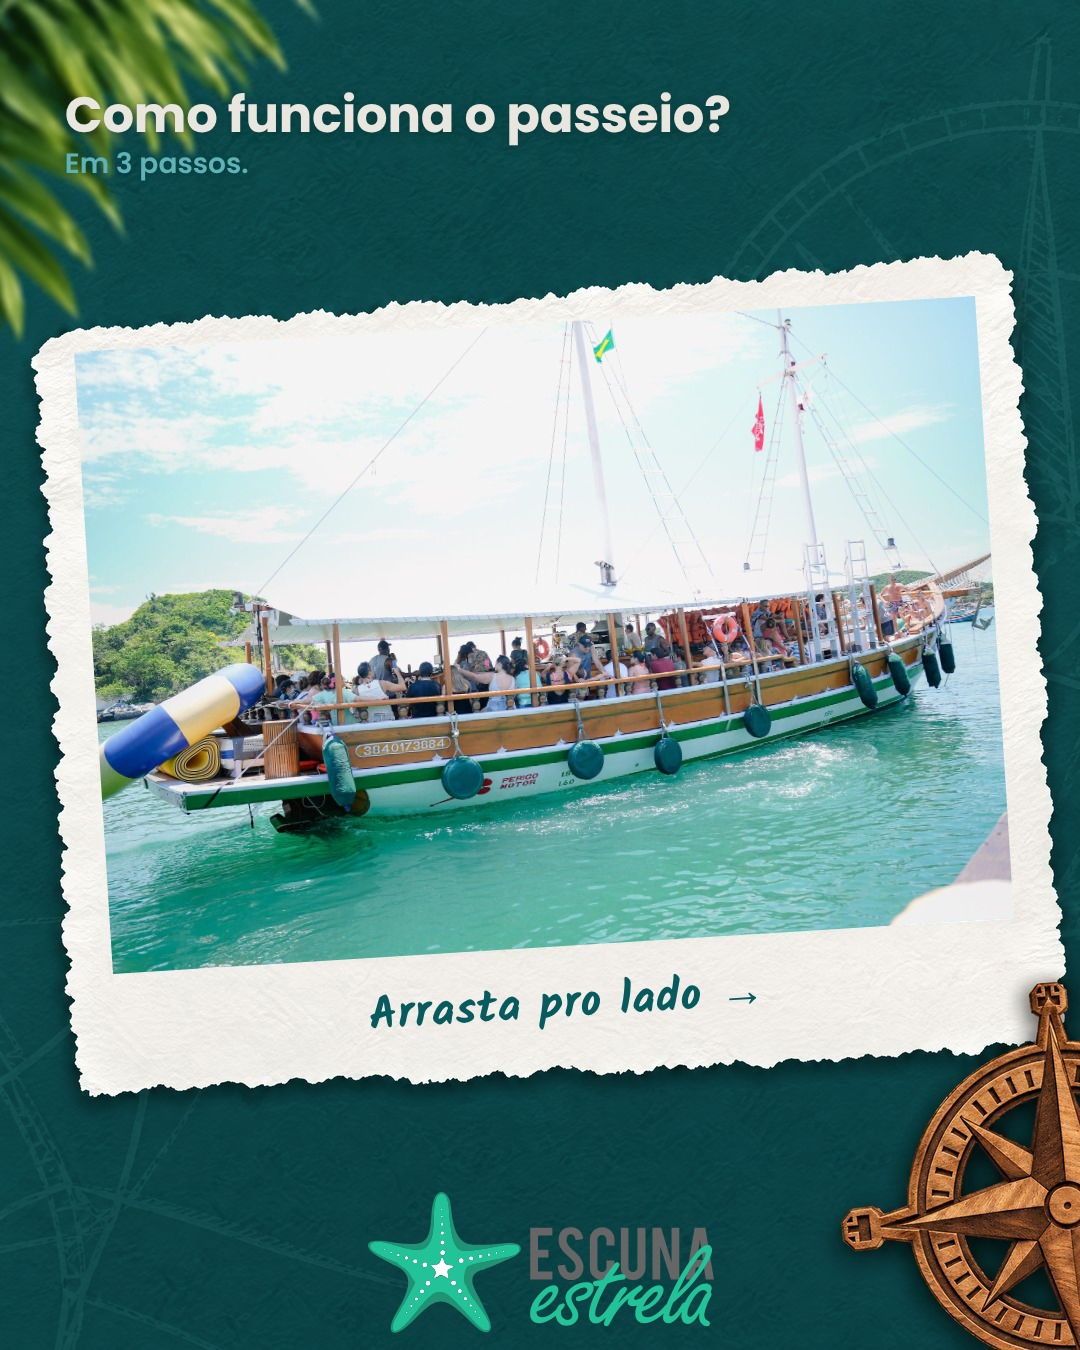
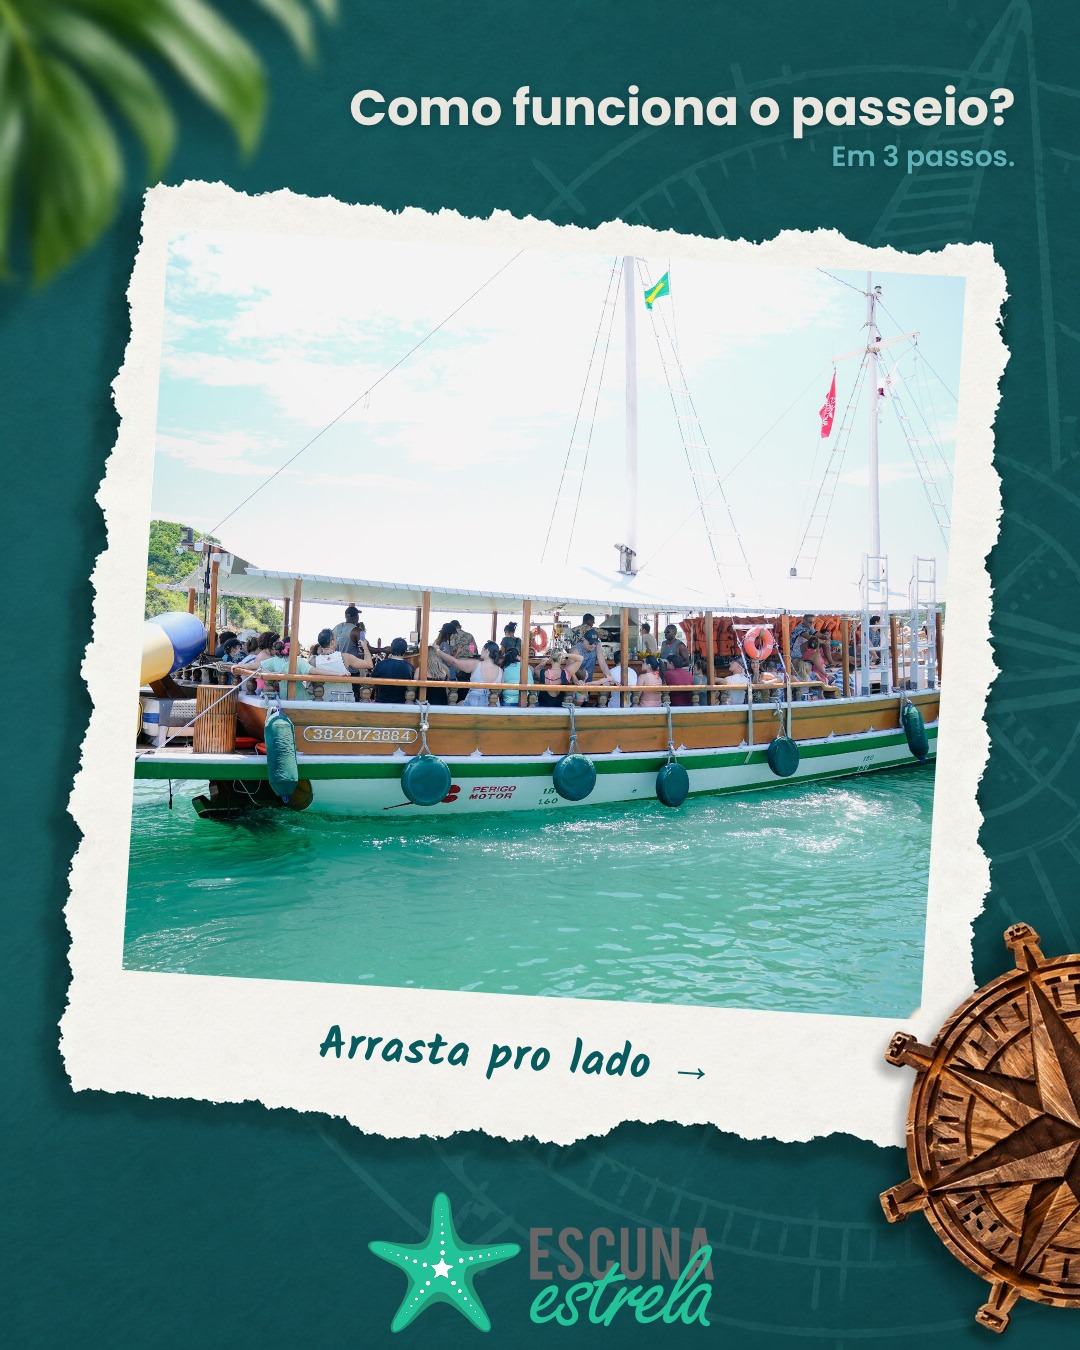
fix(criativos): carrosséis alternam o GIRO da polaroide, não o formato da foto
O pedido "mesclar a orientação em cada foto do carrossel" era sobre o eixo
de rotação da polaroide (todas as bases vêm inclinadas 3–4° anti-horário),
não sobre foto vertical/horizontal. Volta pras polaroides quadradas
aprovadas e alterna o giro:

- molde HF: `espelhar: true` espelha a arte base (scaleX(-1)) — giro vira
  horário, folha e bússola trocam de canto; `alinhar: "direita"` no texto
- render.mjs espelha o quadro junto (cx, giro, bordas, recorte)
- cards 07/08: ímpares anti-horário, pares horário com título à direita
- bases retrato/paisagem ficam no repo como opção, sem uso no lote

Claude-Session: https://claude.ai/code/session_016ARSNAECKu73yHJ9gLAVus

diff --git a/scripts/creatives/templates/molde-hf.html b/scripts/creatives/templates/molde-hf.html
@@ -14,6 +14,7 @@
   /* zonas: caixas em % da arte onde o texto e a logo entram (vêm do spec) */
   .zone { position: absolute; display: flex; flex-direction: column; justify-content: center; align-items: center; text-align: center; gap: .3em; }
   .zone.left { align-items: flex-start; text-align: left; }
+  .zone.right { align-items: flex-end; text-align: right; }
   .title { font-weight: 700; line-height: 1.04; letter-spacing: -.005em; color: var(--ee-offwhite); text-wrap: balance; text-shadow: 0 2px 10px rgba(7,42,46,.45); }
   .fact { font-weight: 600; line-height: 1.25; color: var(--ee-turquesa-clara); text-shadow: 0 1px 6px rgba(7,42,46,.4); }
   .cta { margin-top: .5em; background: #fff; color: var(--ee-petroleo); font-weight: 700; line-height: 1; padding: .62em 1.15em; border-radius: 999px; box-shadow: 0 8px 20px rgba(7,42,46,.35); white-space: nowrap; display: inline-flex; align-items: center; gap: .45em; }
@@ -49,8 +50,8 @@
   document.documentElement.style.setProperty('--W', f.W + 'px'); document.documentElement.style.setProperty('--H', f.H + 'px');
   const Z = Object.assign({ texto: { x: 6, y: 60, w: 88, h: 24, alinhar: 'centro', titulo: 7.4, fato: 3.1, cta: 3.0 }, logo: { x: 30, y: 87, w: 40, h: 9 } }, SPEC.zonas || {});
   const pct = (el, z) => { el.style.left = z.x + '%'; el.style.top = z.y + '%'; el.style.width = z.w + '%'; el.style.height = z.h + '%'; };
-  const base = document.getElementById('base'); base.src = SPEC.baseSrc || '';
-  const zone = document.getElementById('zone'); pct(zone, Z.texto); if (Z.texto.alinhar === 'esquerda') zone.classList.add('left');
+  const base = document.getElementById('base'); base.src = SPEC.baseSrc || ''; if (SPEC.espelhar) base.style.transform = 'scaleX(-1)'; // espelhar: inverte o giro da polaroide pintada (e troca folha/bússola de canto)
+  const zone = document.getElementById('zone'); pct(zone, Z.texto); if (Z.texto.alinhar === 'esquerda') zone.classList.add('left'); if (Z.texto.alinhar === 'direita') zone.classList.add('right');
   // tamanhos em % da largura da arte: independem do formato
   const vw = (p) => (f.W * p / 100) + 'px';
   const title = document.getElementById('title'); title.textContent = SPEC.titulo || ''; title.style.fontSize = vw(Z.texto.titulo);

diff --git a/scripts/creatives/bases/README.md b/scripts/creatives/bases/README.md
@@ -12,7 +12,7 @@ logo são desenhados por cima em HTML (texto e logo sempre exatos). Prompts em `
 | `polaroid-unica-01.jpg`, `-02.jpg` | petróleo inteiro com marca d'água, 1 polaroid grande com borda inferior larga pra legenda, rosa no canto inferior esquerdo | drone João Fernandes | texto `6/2/68/15` (esq.), legenda como rótulo `14/74/72/7`, logo `32/90/36/7` |
 | `fundo-enquete-01.jpg`, `-02.jpg` (1080×1080) | **só fundo**: petróleo em cima, rasgo, kraft vazio embaixo, rosa no canto superior direito, folha | nenhuma (polaroides montadas em HTML via `polaroides`) | texto `4/4/70/24`, polaroides `w 31` em x 3 / 34.5 / 66, logo `35/89/30/8` |
 | `fundo-petroleo-01.jpg`, `-02.jpg` (1080×1350) | **só fundo**: petróleo com marca d'água, rosa no canto inferior esquerdo, folha no canto superior direito | nenhuma (polaroide única / cards de carrossel em HTML) | texto no topo, polaroide central, logo `32/90/36/7` |
-| `polaroid-retrato-01.jpg`, `-02.jpg` (1080×1350) | petróleo com marca d'água, 1 polaroide **vertical** (01 quase quadrada, 02 retrato 4:5), rosa num canto inferior, folha num canto superior | drone (genérica, coberta pelo `quadro`) | texto `6/2/72/15` (esq.), logo `32/91/36/7` |
+| `polaroid-retrato-01.jpg`, `-02.jpg`, `polaroid-paisagem-01.jpg` (1080×1350) | petróleo com marca d'água, 1 polaroide **vertical** (retrato) ou **horizontal** (paisagem), rosa num canto inferior, folha num canto superior | genérica (coberta pelo `quadro`) | texto `6/2/72/15` (esq.), logo `32/91/36/7`. Disponíveis, mas o dono preferiu as quadradas nos carrosséis |
 | `anuncio-kraft-01.jpg`, `-02.jpg` (1200×628) | painel petróleo à esquerda com faixa kraft embaixo (logos no papel), foto à direita | drone João Fernandes | texto `4/7/34/62` (esq.), logo `4/80/34/16` |
 | `anuncio-01.jpg`, `-02.jpg` (1200×628) | painel petróleo à esquerda com rasgo vertical, foto à direita, rosa no canto | drone João Fernandes | texto `4/8/33/60` (esq.), logo `4/74/32/18` (escuna+nautitour) |
 
@@ -26,6 +26,10 @@ foto, giro, borda branca) e grava em `quadros.json`; no spec, `polaroides: [{qua
 na borda inferior, com o mesmo giro. Trocar a foto é mudar o campo `foto`. Rodar o `quadros.py` de novo sempre que
 entrar uma base nova com polaroides (conferir a contagem; `polaroids-01/02` não medem certo porque as fotos se
 sobrepõem — não usar `quadro` nelas).
+
+**Giro da polaroide**: todas as bases do Higgsfield vieram inclinadas pro mesmo lado (3–4° anti-horário). Pra alternar o giro
+num carrossel, `espelhar: true` no spec espelha a arte base no molde (giro vira horário, folha e bússola trocam de canto) e o
+`render.mjs` espelha o quadro junto; nesses cards use `alinhar: "direita"` no texto, porque a folha vai pro canto superior esquerdo.
 
 Legenda das polaroides: fonte manuscrita **Kalam** 700 (Google Fonts) por padrão (`fonte_legenda` no spec troca; Caveat, Patrick Hand e Permanent Marker também carregam), tamanho 3.4 % nas enquetes e 4.2 % na polaroide única. O `recorte` em `quadros.json` é o polígono visível da foto: tira o pedaço que fica por baixo de outra polaroide pintada (ordem de empilhamento detectada pela cor do papel), senão a foto nova cobre a borda da vizinha.
 

diff --git a/scripts/creatives/lotes/2026-10-lancamento/README.md b/scripts/creatives/lotes/2026-10-lancamento/README.md
@@ -23,7 +23,7 @@ por peça; o resultado volta pra cá como ajuste nos specs.
 | 04 | prova-boia-bar | Prova | feed | 4:5 | refeita: "tapete flutuante" no lugar de "mergulho" |
 | 05 | enquete-parada | Engajamento | feed | 1:1 | refeita: polaroides pintadas (enquete-01) com fotos 1/2/4 escolhidas pelo dono encaixadas nos quadros. Rodada 3: legenda maior em Kalam, recorte sem sobreposição |
 | 06 | enquete-momento | Engajamento | feed | 1:1 | refeita: idem 05 na enquete-02, fotos provisórias (3/27/32). Rodada 3: idem 05 |
-| 07a–d | curiosidade-praias | Engajamento | feed | 4:5 ×4 | virou carrossel de 4 cards (polaroide pintada + foto encaixada no quadro, CTA no último). Rodada 3: cards alternam quadrada / vertical / horizontal (`polaroid-unica`, `-retrato`, `-paisagem`), legenda maior em Kalam |
+| 07a–d | curiosidade-praias | Engajamento | feed | 4:5 ×4 | virou carrossel de 4 cards (polaroide pintada + foto encaixada no quadro, CTA no último). Rodada 3: legenda maior em Kalam; o giro da polaroide alterna entre os cards (ímpares anti-horário, pares horário via `espelhar`, título à direita) |
 | 08a–d | como-funciona | Educativo | feed | 4:5 ×4 | virou carrossel de 4 cards (embarque → paradas → bar + CTA) |
 | 09 | story-horarios | Venda | story | 9:16 | aprovada |
 | 10a/b/c | story-amanha | Venda | story | 9:16 ×3 | 3 versões (9h30 e 12h / 11h30 / 12h) pedidas pelo dono; o 10 original saiu |
